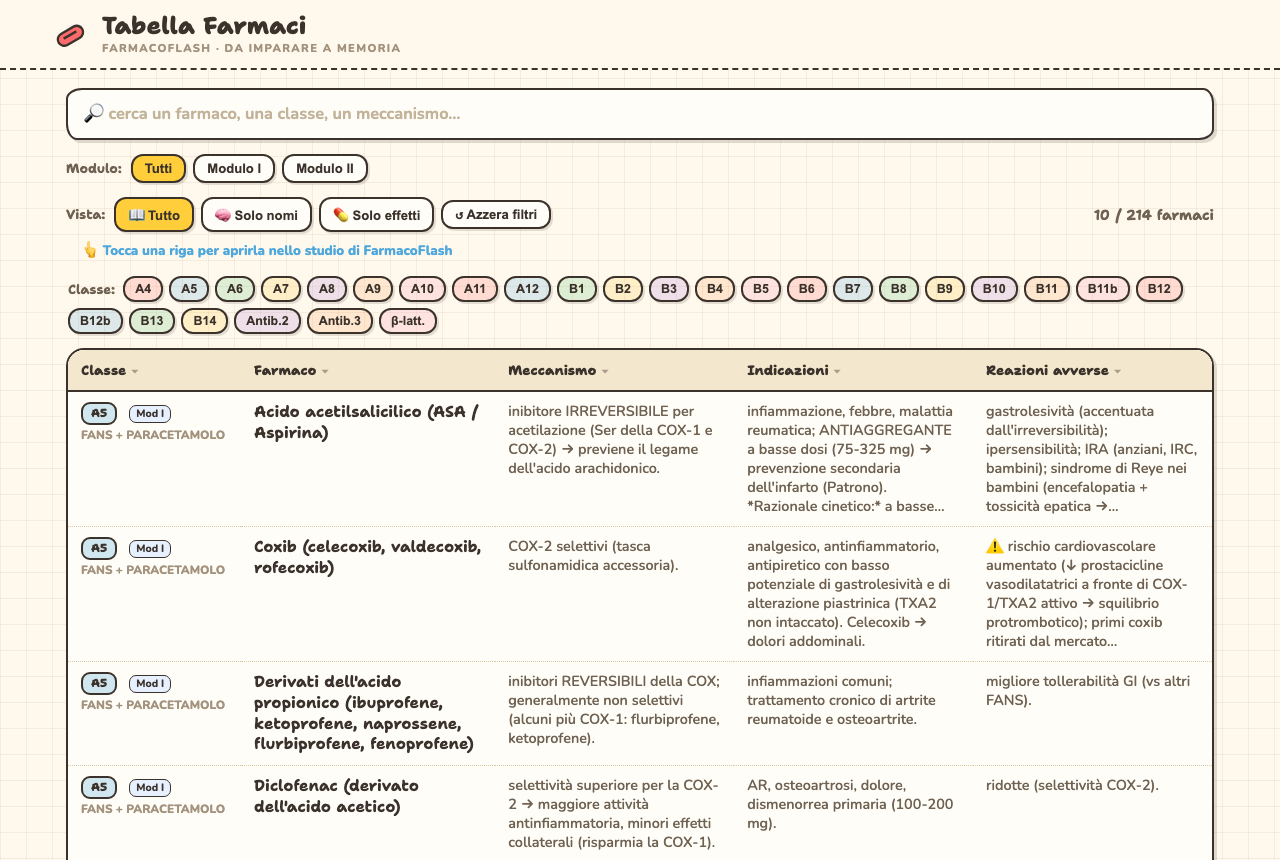
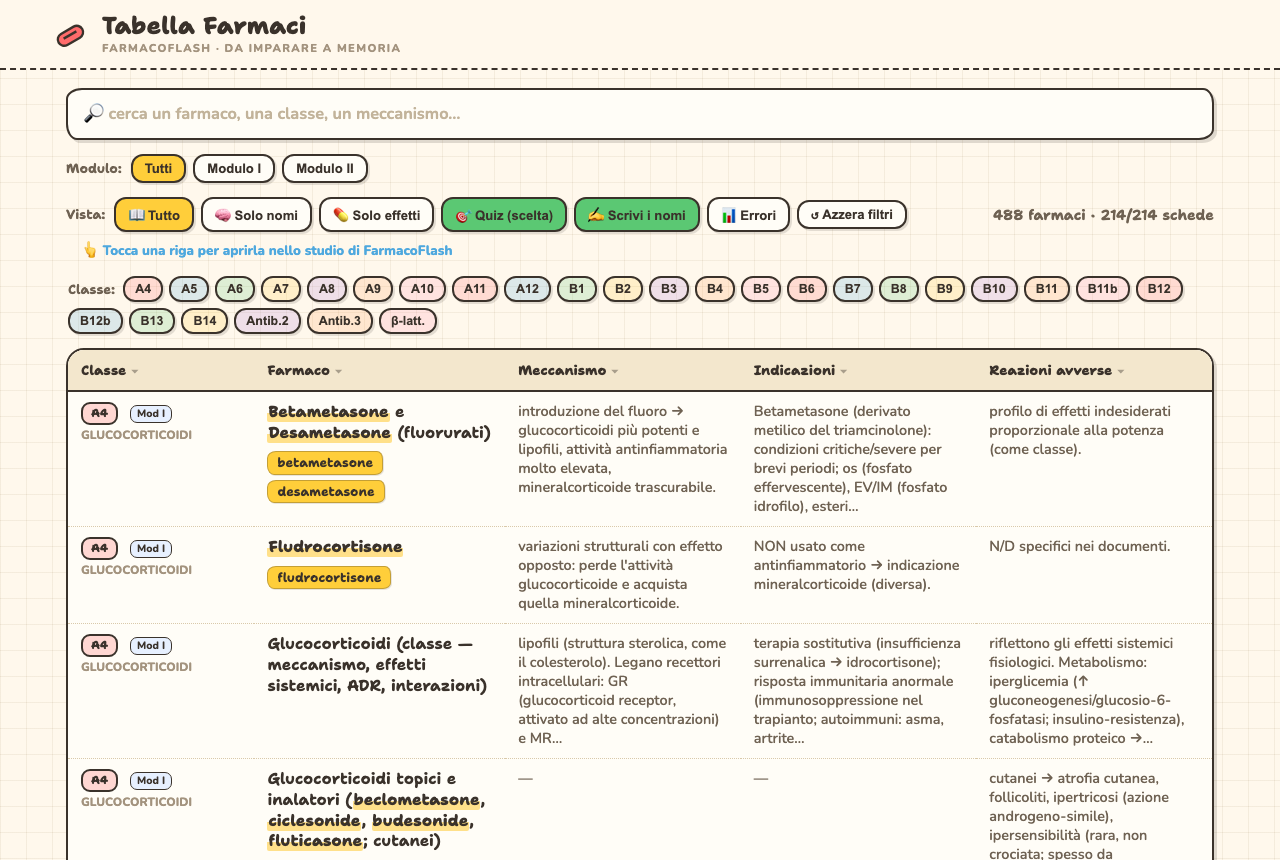
feat(tabella): mostra tutti i nomi reali dei farmaci in ogni riga
- Ogni riga elenca i farmaci veri (chip giallo-evidenziatore) sotto il titolo, accanto al codice classe (A4...) -> si trovano subito
- Intestazione con conteggio reale: '488 farmaci · 214/214 schede'
- Chip evidenziati nella ricerca; rispettano le 3 viste (Tutto / Solo nomi piu grandi / Solo effetti li nasconde)
- Screenshot guida 09 e 10 aggiornati coi chip

Changed region(s): [[0.0625, 0.4233, 0.9375, 1.0], [0.3438, 0.2116, 0.7188, 0.2721], [0.7812, 0.2419, 0.9375, 0.2721]]

diff --git a/Tabella-Farmaci.html b/Tabella-Farmaci.html
@@ -59,6 +59,11 @@ tbody tr:hover{background:#fffaf0}
 .dchip{display:inline-block;font-family:var(--font-display);font-weight:800;font-size:.72rem;padding:2px 8px;border-radius:9px;border:2px solid var(--ink);color:var(--ink);margin-right:6px}
 .c-cls small{color:var(--muted);font-weight:800;font-size:.74rem;display:block;margin-top:3px;max-width:160px;white-space:normal}
 .c-name{font-family:var(--font-display);font-weight:700;font-size:.98rem;color:var(--ink);min-width:180px;max-width:250px}
+.drugtags{display:flex;flex-wrap:wrap;gap:5px 6px;margin-top:8px}
+body.m-nomi .drugtags{gap:7px 8px;margin-top:10px}
+.dtag{font-weight:700;font-size:.8rem;background:var(--yellow);color:var(--ink);border:1.6px solid rgba(58,50,43,.3);border-radius:9px 6px 8px 7px/7px 8px 6px 9px;padding:2px 9px;line-height:1.35;white-space:nowrap;box-shadow:1px 1px 0 rgba(58,50,43,.12)}
+body.m-nomi .dtag{font-size:.92rem;padding:3px 11px}
+.dtag mark{background:#ffcf2e;padding:0;border-radius:0}
 .c-mecc,.c-ind,.c-adr{color:var(--ink-soft);font-weight:600;max-width:235px}
 .mod-pill{display:inline-block;font-size:.66rem;font-weight:800;padding:1px 6px;border-radius:7px;border:1.5px solid var(--ink);margin-left:6px;color:var(--ink)}
 .mod-I{background:#e7f0ff}.mod-II{background:#ffe9f1}
@@ -217,7 +222,8 @@ function filtered(){
 
 function render(){
   const rows=filtered();
-  $('#count').textContent = rows.length+' / '+DATA.length+' farmaci';
+  const nd=new Set(); rows.forEach(x=>(x.drugs||[]).forEach(d=>nd.add(d)));
+  $('#count').textContent = nd.size+' farmaci · '+rows.length+'/'+DATA.length+' schede';
   if(!rows.length){ $('#tb').innerHTML='<tr><td colspan="5" class="empty">Nessun farmaco trovato 🐢</td></tr>'; return; }
   $('#tb').innerHTML = rows.map(x=>{
     const code = (DECKS.find(d=>d.id===x.deck)||{}).code || x.deck;
@@ -225,7 +231,7 @@ function render(){
     const href='Flashcard-Farmacologia.html#front='+esc(x.id||'');
     return '<tr class="dr" data-id="'+esc(x.id||'')+'">'+
       '<td class="c-cls">'+cls+'</td>'+
-      '<td class="c-name hN"><a class="namelink" href="'+href+'">'+dnHi(x.name,x.drugs)+'</a></td>'+
+      '<td class="c-name hN"><a class="namelink" href="'+href+'">'+dnHi(x.name,x.drugs)+'</a>'+(x.drugs&&x.drugs.length?'<div class="drugtags">'+x.drugs.map(dn=>'<span class="dtag">'+hi(dn)+'</span>').join('')+'</div>':'')+'</td>'+
       '<td class="c-mecc col-d">'+hi(x.mecc||'—')+'</td>'+
       '<td class="c-ind col-d">'+hi(x.ind||'—')+'</td>'+
       '<td class="c-adr col-d">'+hi(x.adr||'—')+'</td>'+